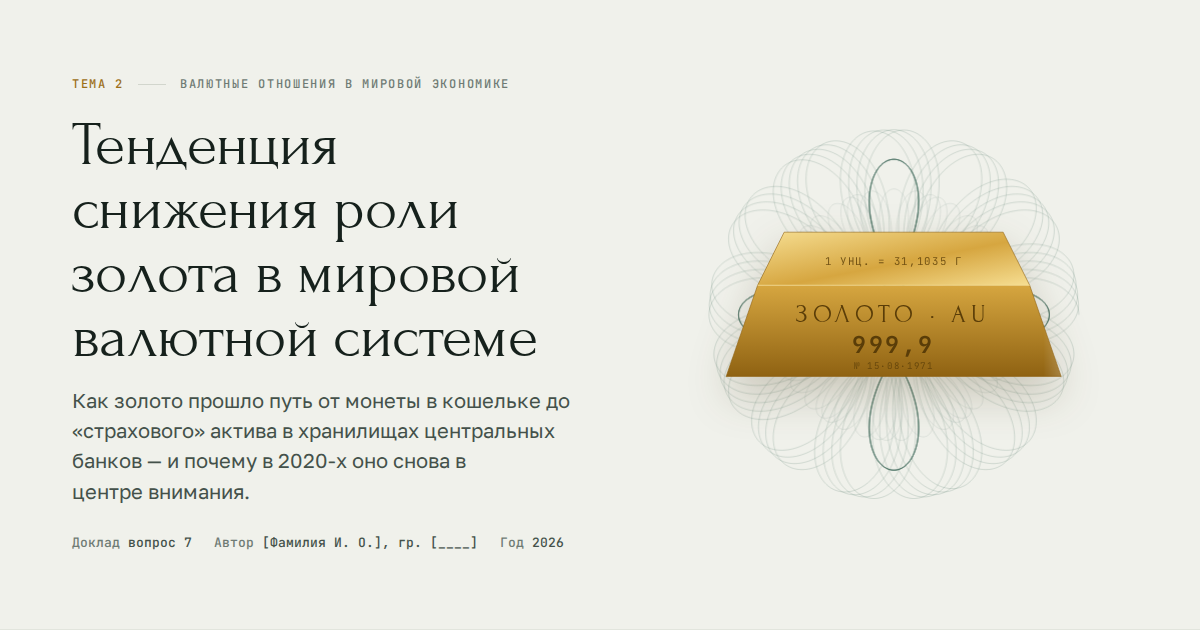
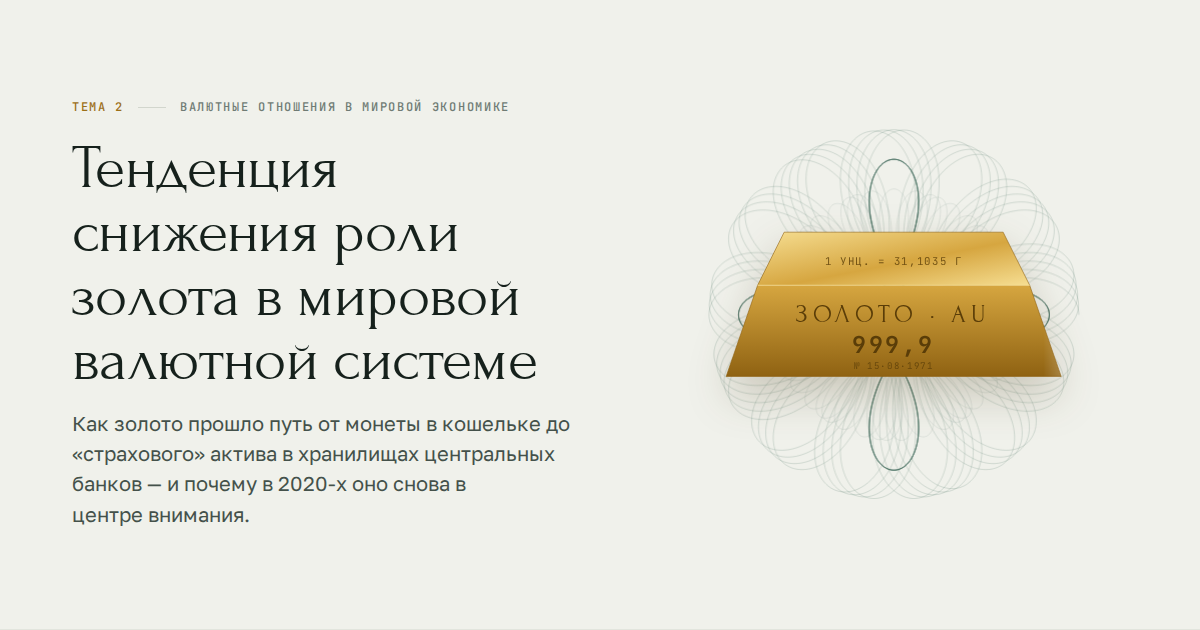
Убрана строка «Доклад · Автор · Год» с титульного слайда презентации
Превью для мессенджеров перерисовано без этой строки.

Claude-Session: https://claude.ai/code/session_011TpDjrKiSJz2MZ6Hi1QUVy

Changed region(s): [[0.0617, 0.1206, 0.4625, 0.6032], [0.0617, 0.6333, 0.4933, 0.8746], [0.1542, 0.1206, 0.4317, 0.181]]

diff --git a/tema-7-zoloto/site/index.html b/tema-7-zoloto/site/index.html
@@ -184,9 +184,6 @@ p { margin: 0; text-wrap: pretty; }
 .title-grid { display: grid; grid-template-columns: minmax(0, 1.15fr) minmax(0, 1fr); gap: clamp(24px, 4vw, 56px); align-items: center; }
 @media (max-width: 900px) { .title-grid { grid-template-columns: 1fr; } }
 .title-grid h1 { margin-top: 20px; }
-.title-meta { margin-top: 28px; display: flex; flex-wrap: wrap; gap: 8px 22px; font: 500 13px/1.4 var(--mono); color: var(--ink-2); }
-.title-meta span { display: inline-flex; gap: 8px; }
-.title-meta em { font-style: normal; color: var(--muted); }
 .ingot-wrap { position: relative; aspect-ratio: 1 / .82; max-width: 560px; width: 100%; justify-self: center; }
 .ingot-wrap canvas { position: absolute; inset: 0; width: 100%; height: 100%; }
 .ingot-wrap svg { position: absolute; left: 4%; right: 4%; top: 20%; width: 92%; height: auto; filter: drop-shadow(0 18px 22px rgba(60, 40, 0, .22)); }
@@ -395,11 +392,6 @@ details.data td:last-child { text-align: right; }
       <div class="eyebrow"><span class="no">Тема 2</span><span class="sep"></span><span>Валютные отношения в мировой экономике</span></div>
       <h1>Тенденция снижения роли золота в мировой валютной системе</h1>
       <p class="lead">Как золото прошло путь от монеты в кошельке до «страхового» актива в хранилищах центральных банков — и почему в 2020-х оно снова в центре внимания.</p>
-      <div class="title-meta">
-        <span><em>Доклад</em> вопрос 7</span>
-        <span><em>Автор</em> [Фамилия И. О.], гр. [____]</span>
-        <span><em>Год</em> 2026</span>
-      </div>
       <div class="hint"><span class="keys"><kbd>→</kbd> <kbd>пробел</kbd> — дальше · <kbd>F</kbd> — полный экран</span><span>↓ листайте</span></div>
     </div>
     <div class="ingot-wrap" aria-hidden="true">

diff --git a/tema-7-zoloto/README.md b/tema-7-zoloto/README.md
@@ -9,7 +9,7 @@
 
 ## Что заполнить перед сдачей
 
-На титульном листе доклада и на первом слайде стоят заглушки в квадратных скобках:
+На титульном листе доклада стоят заглушки в квадратных скобках:
 `[Наименование образовательной организации]`, `[наименование кафедры]`, `[наименование дисциплины]`,
 `[Фамилия И. О.]`, номер группы, `[Город]`. Содержание собрано вручную: если после правок
 сдвинутся страницы, проверьте номера в оглавлении.
